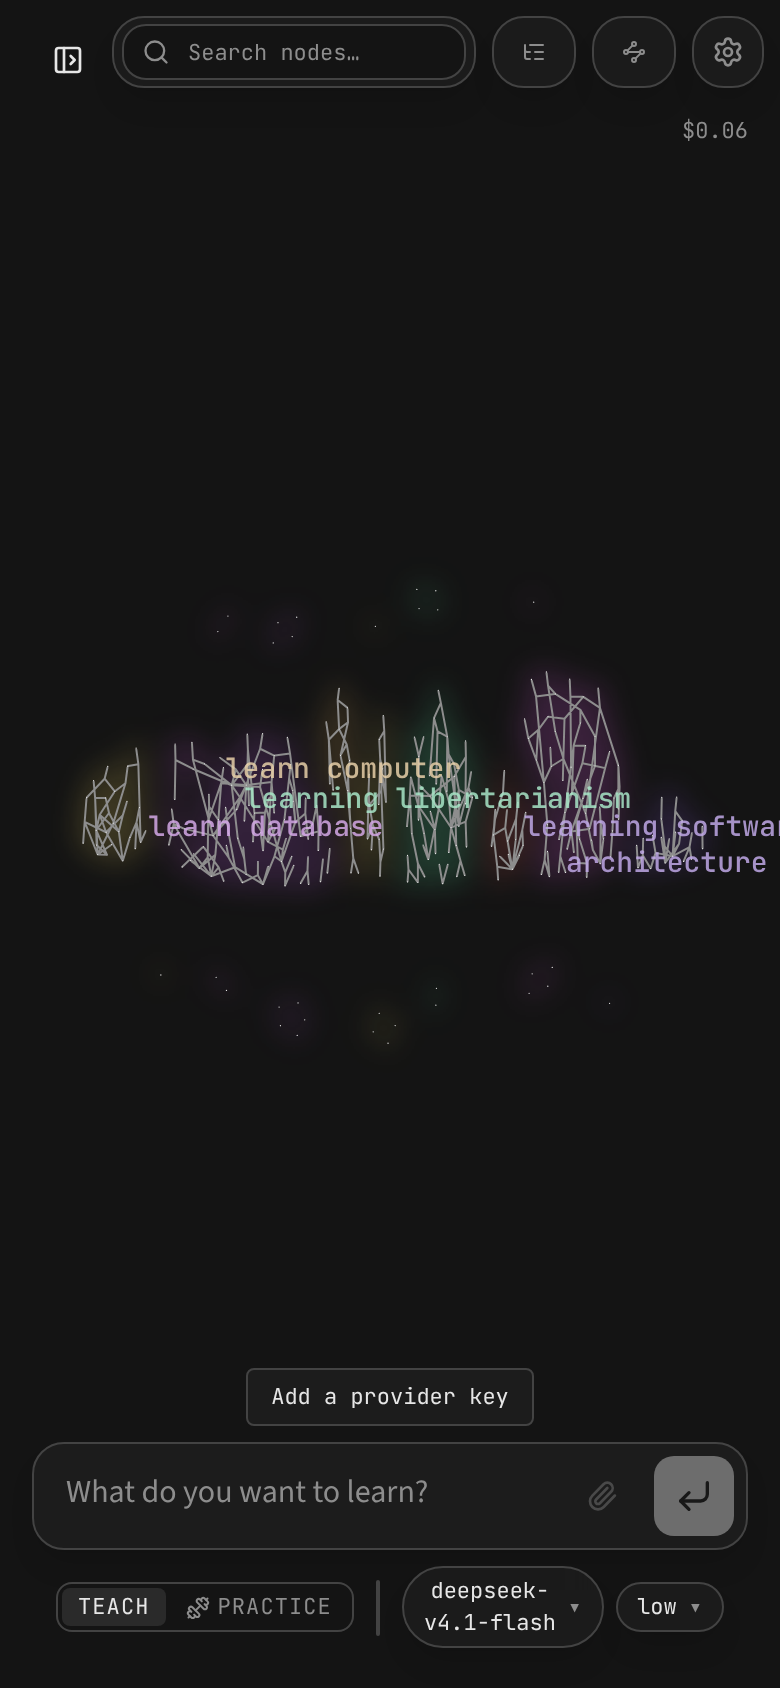
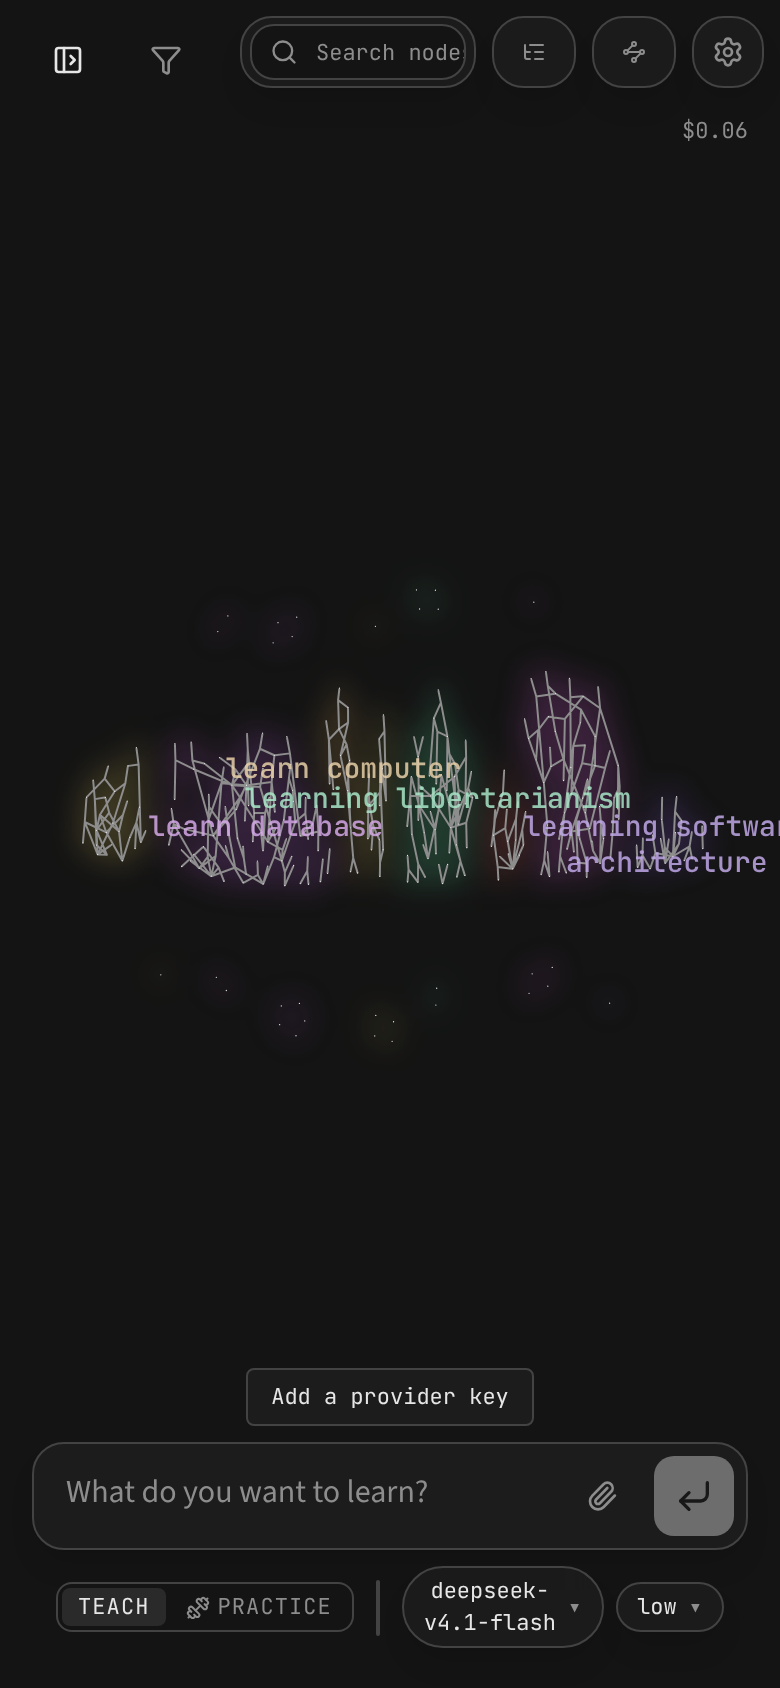
Phone shell: graph screenshot with the folder filter; what was checked
Claude-Session: https://claude.ai/code/session_01FjJtUTjid7UtTPWPtqgwKS

diff --git a/docs/mobile/phone-shell.md b/docs/mobile/phone-shell.md
@@ -36,7 +36,7 @@ On a real phone you need the HTTPS address, so this waits for the hosting story 
 
 ## Checked
 
-See the story's pull request for the exact runs. In short: the new tests, 42 checks against a real production server (the manifest and icons without a cookie, everything else still refused, the sign-in page's links and policy, the app's tags), and phone-sized touch emulation in Chromium (taps, a swipe, measurements of the header, the buttons and the page width, screenshots in [screens/](screens/)).
+See the story's pull request for the exact runs. In short: the new tests, 42 checks against a real production server (the manifest and icons without a cookie, everything else still refused, the sign-in page's links and policy, the app's tags), and phone-sized touch emulation in Chromium (taps, a swipe, measurements of the header, the buttons and the page width, screenshots in [screens/](screens/)). After the independent review, 22 more browser checks: the menu button and the folder filter are both free to tap on the graph page, the drawer takes focus and makes the page behind it inert, Tab stays inside it, Escape closes it, the wordmark, New Practice and New Teaching close it from the page you are already on, and a desktop-app user agent at 390px keeps the computer layout.
 
 Not checked: a real iPhone or Android phone. That means the notch and home-indicator padding, "Add to Home Screen", how the icons render, the status bar, and whether Android offers to install.
 
